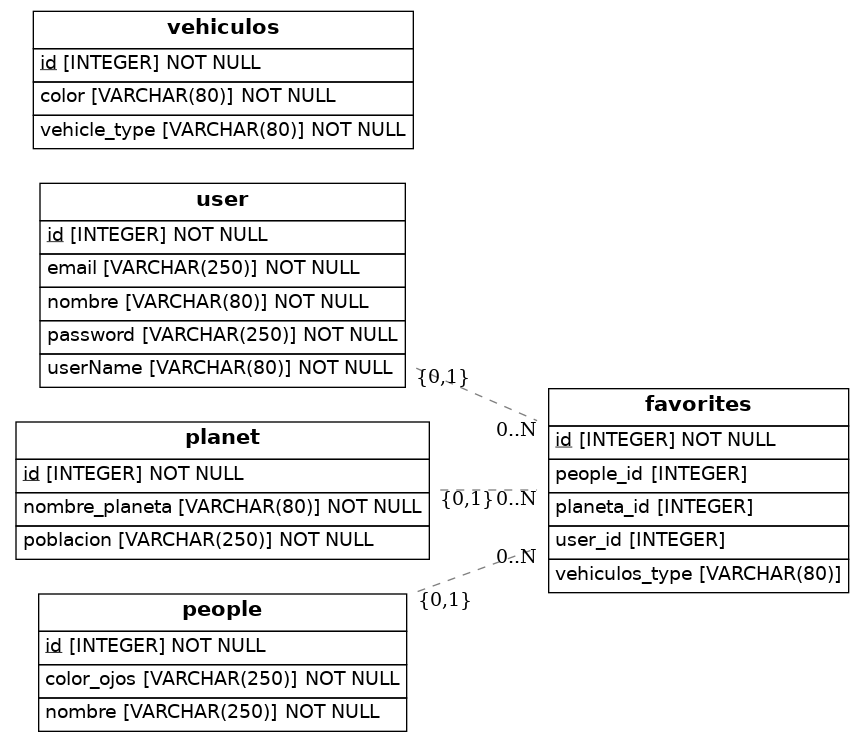
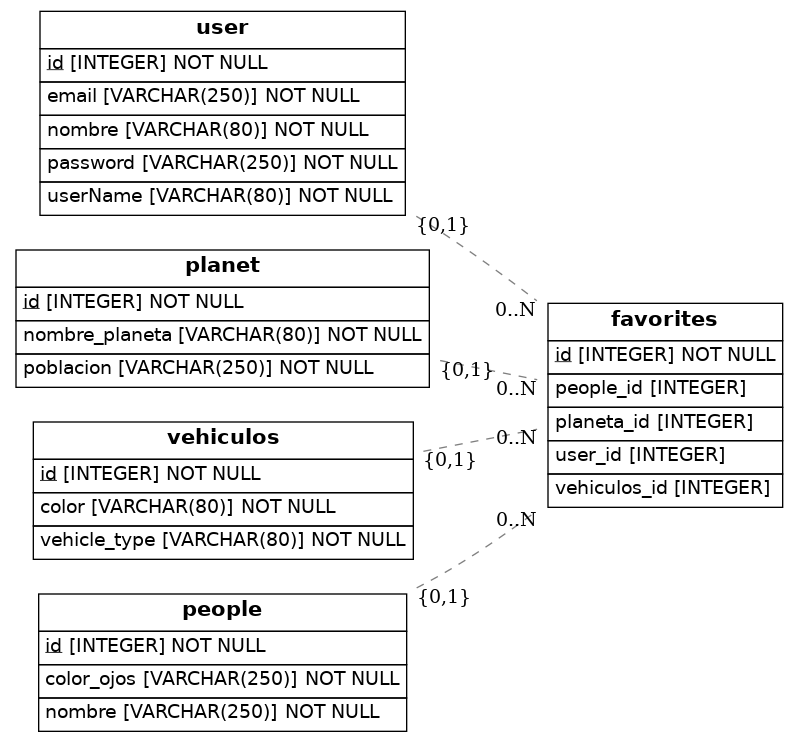
Datamodel

diff --git a/src/models.py b/src/models.py
@@ -46,7 +46,7 @@ class Favorite(Base):
     user_id = Column(Integer(), ForeignKey("user.id"))
     planeta_id = Column(Integer(), ForeignKey("planet.id"))
     people_id = Column(Integer(), ForeignKey("people.id"))
-    vehiculos_type = Column(String(80), ForeignKey("vehicle.vehicle_type"))
+    vehiculos_id = Column(Integer(), ForeignKey("vehiculos.id"))
 
 
     def to_dict(self):
